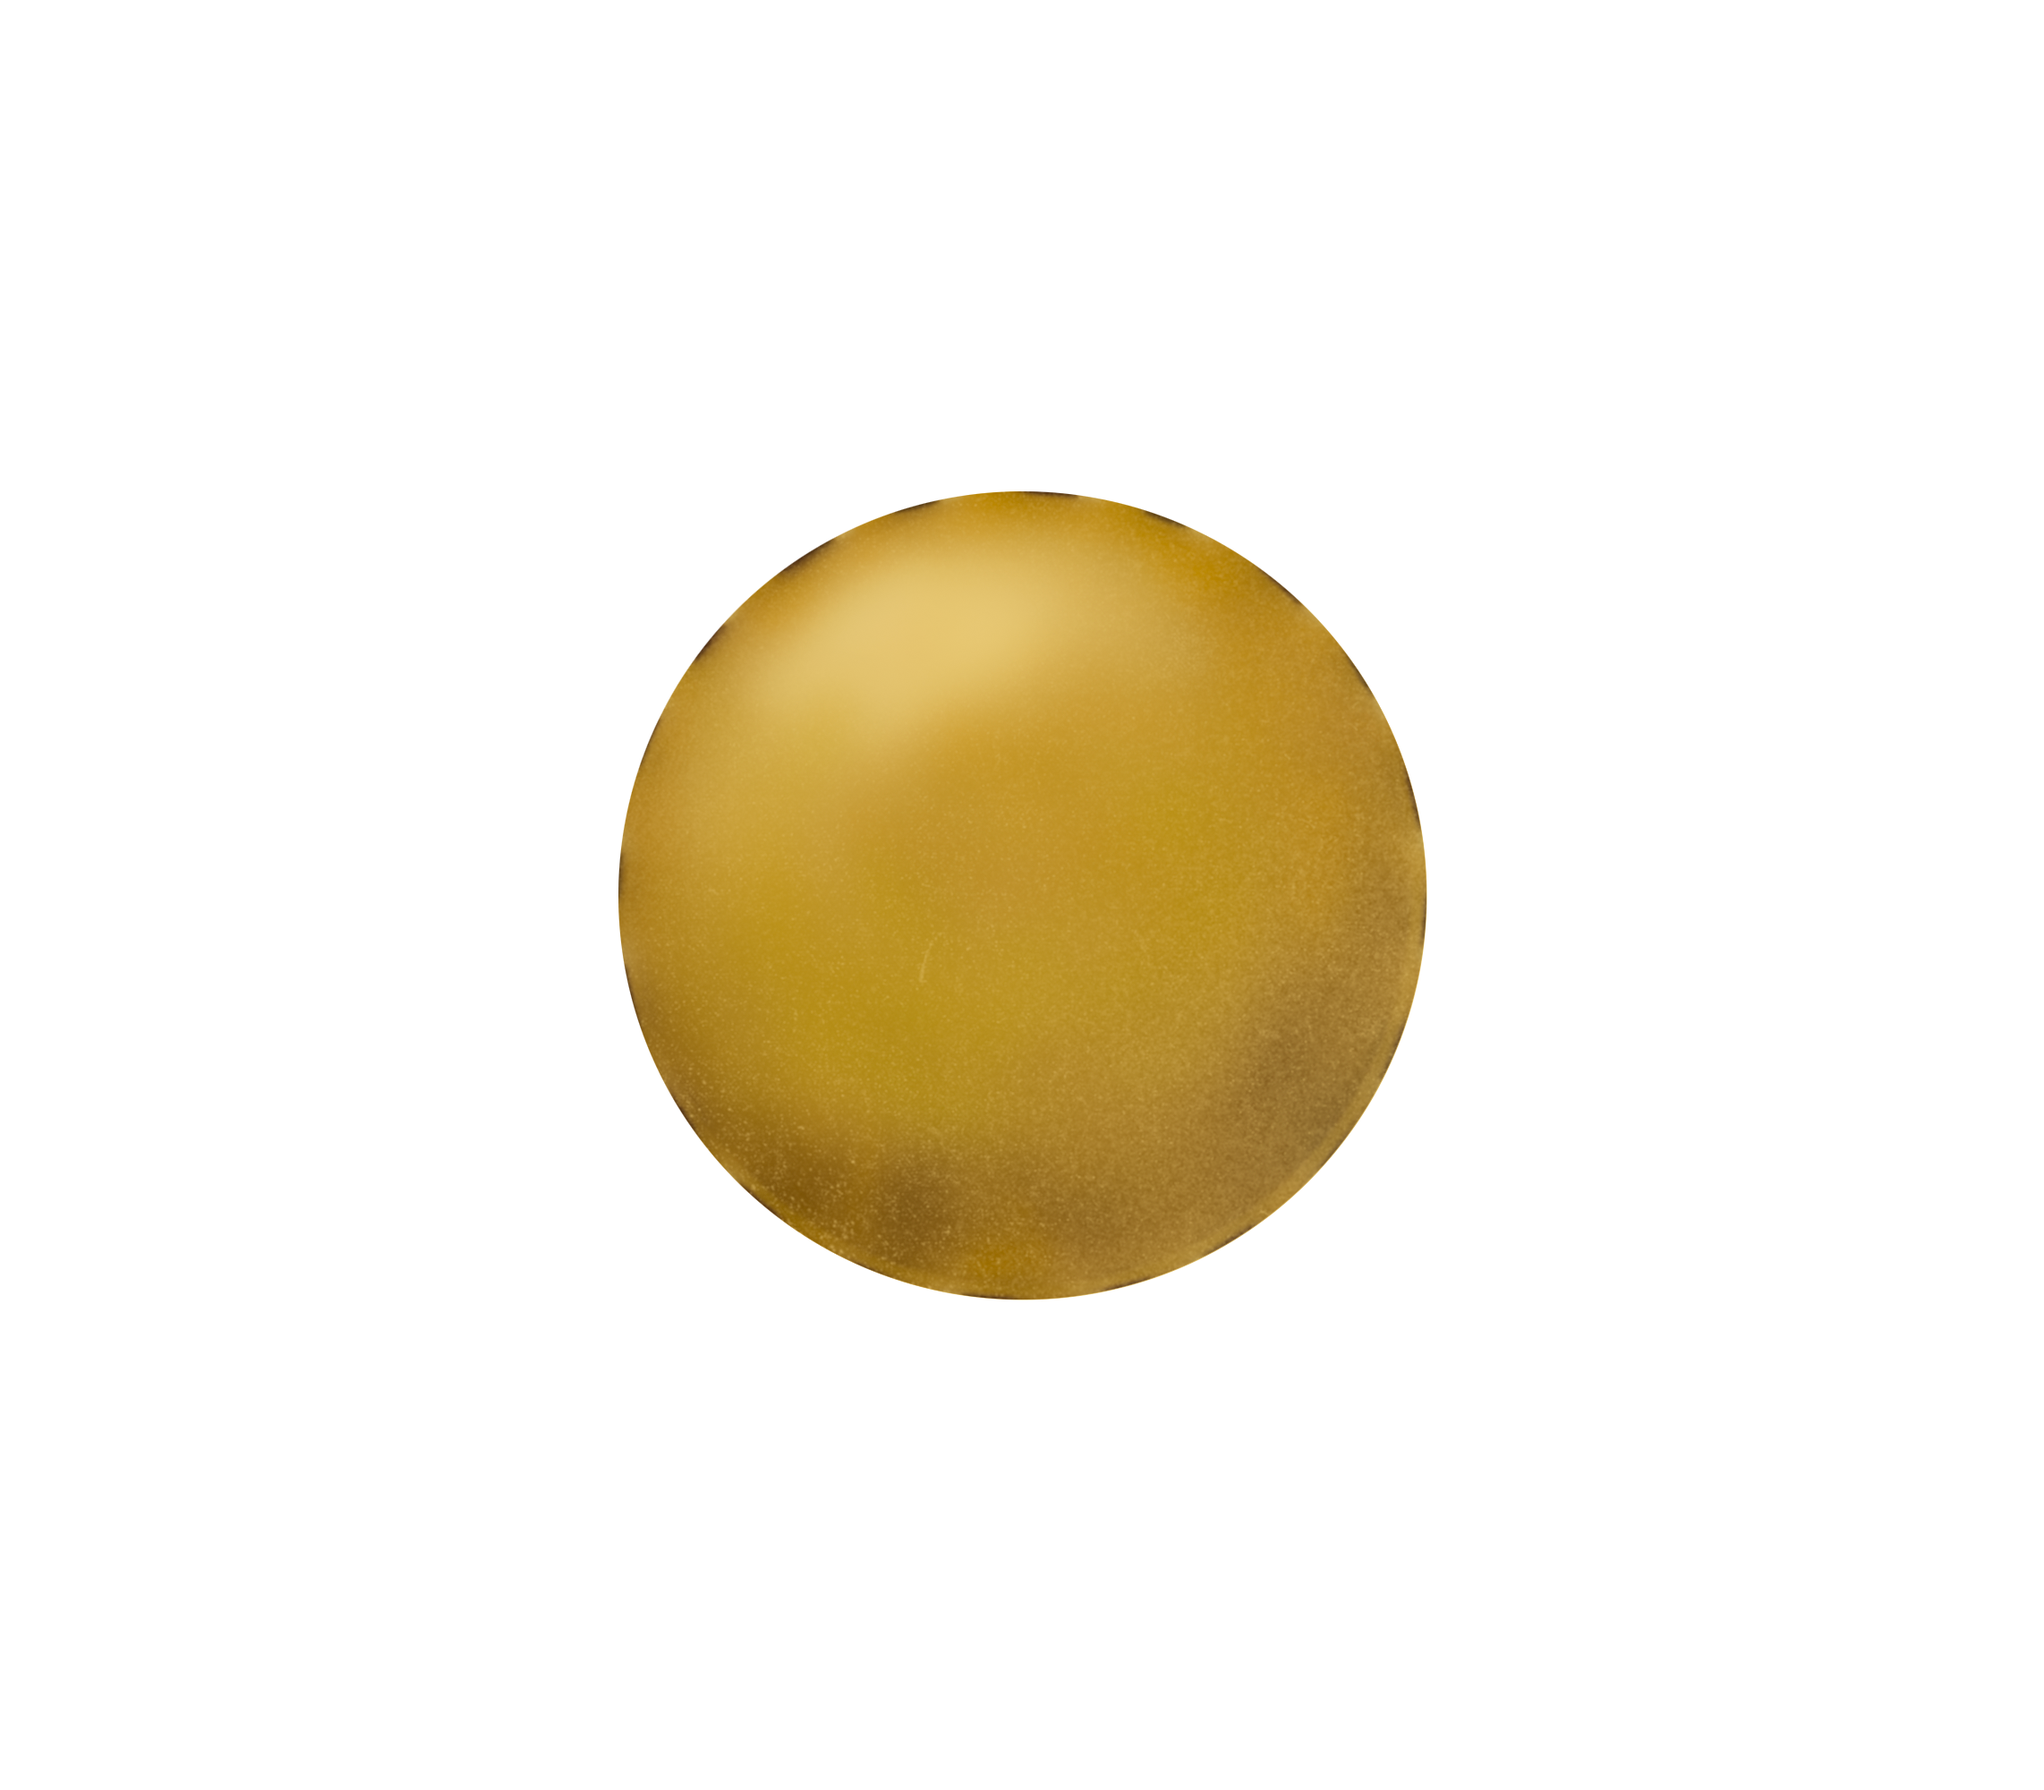
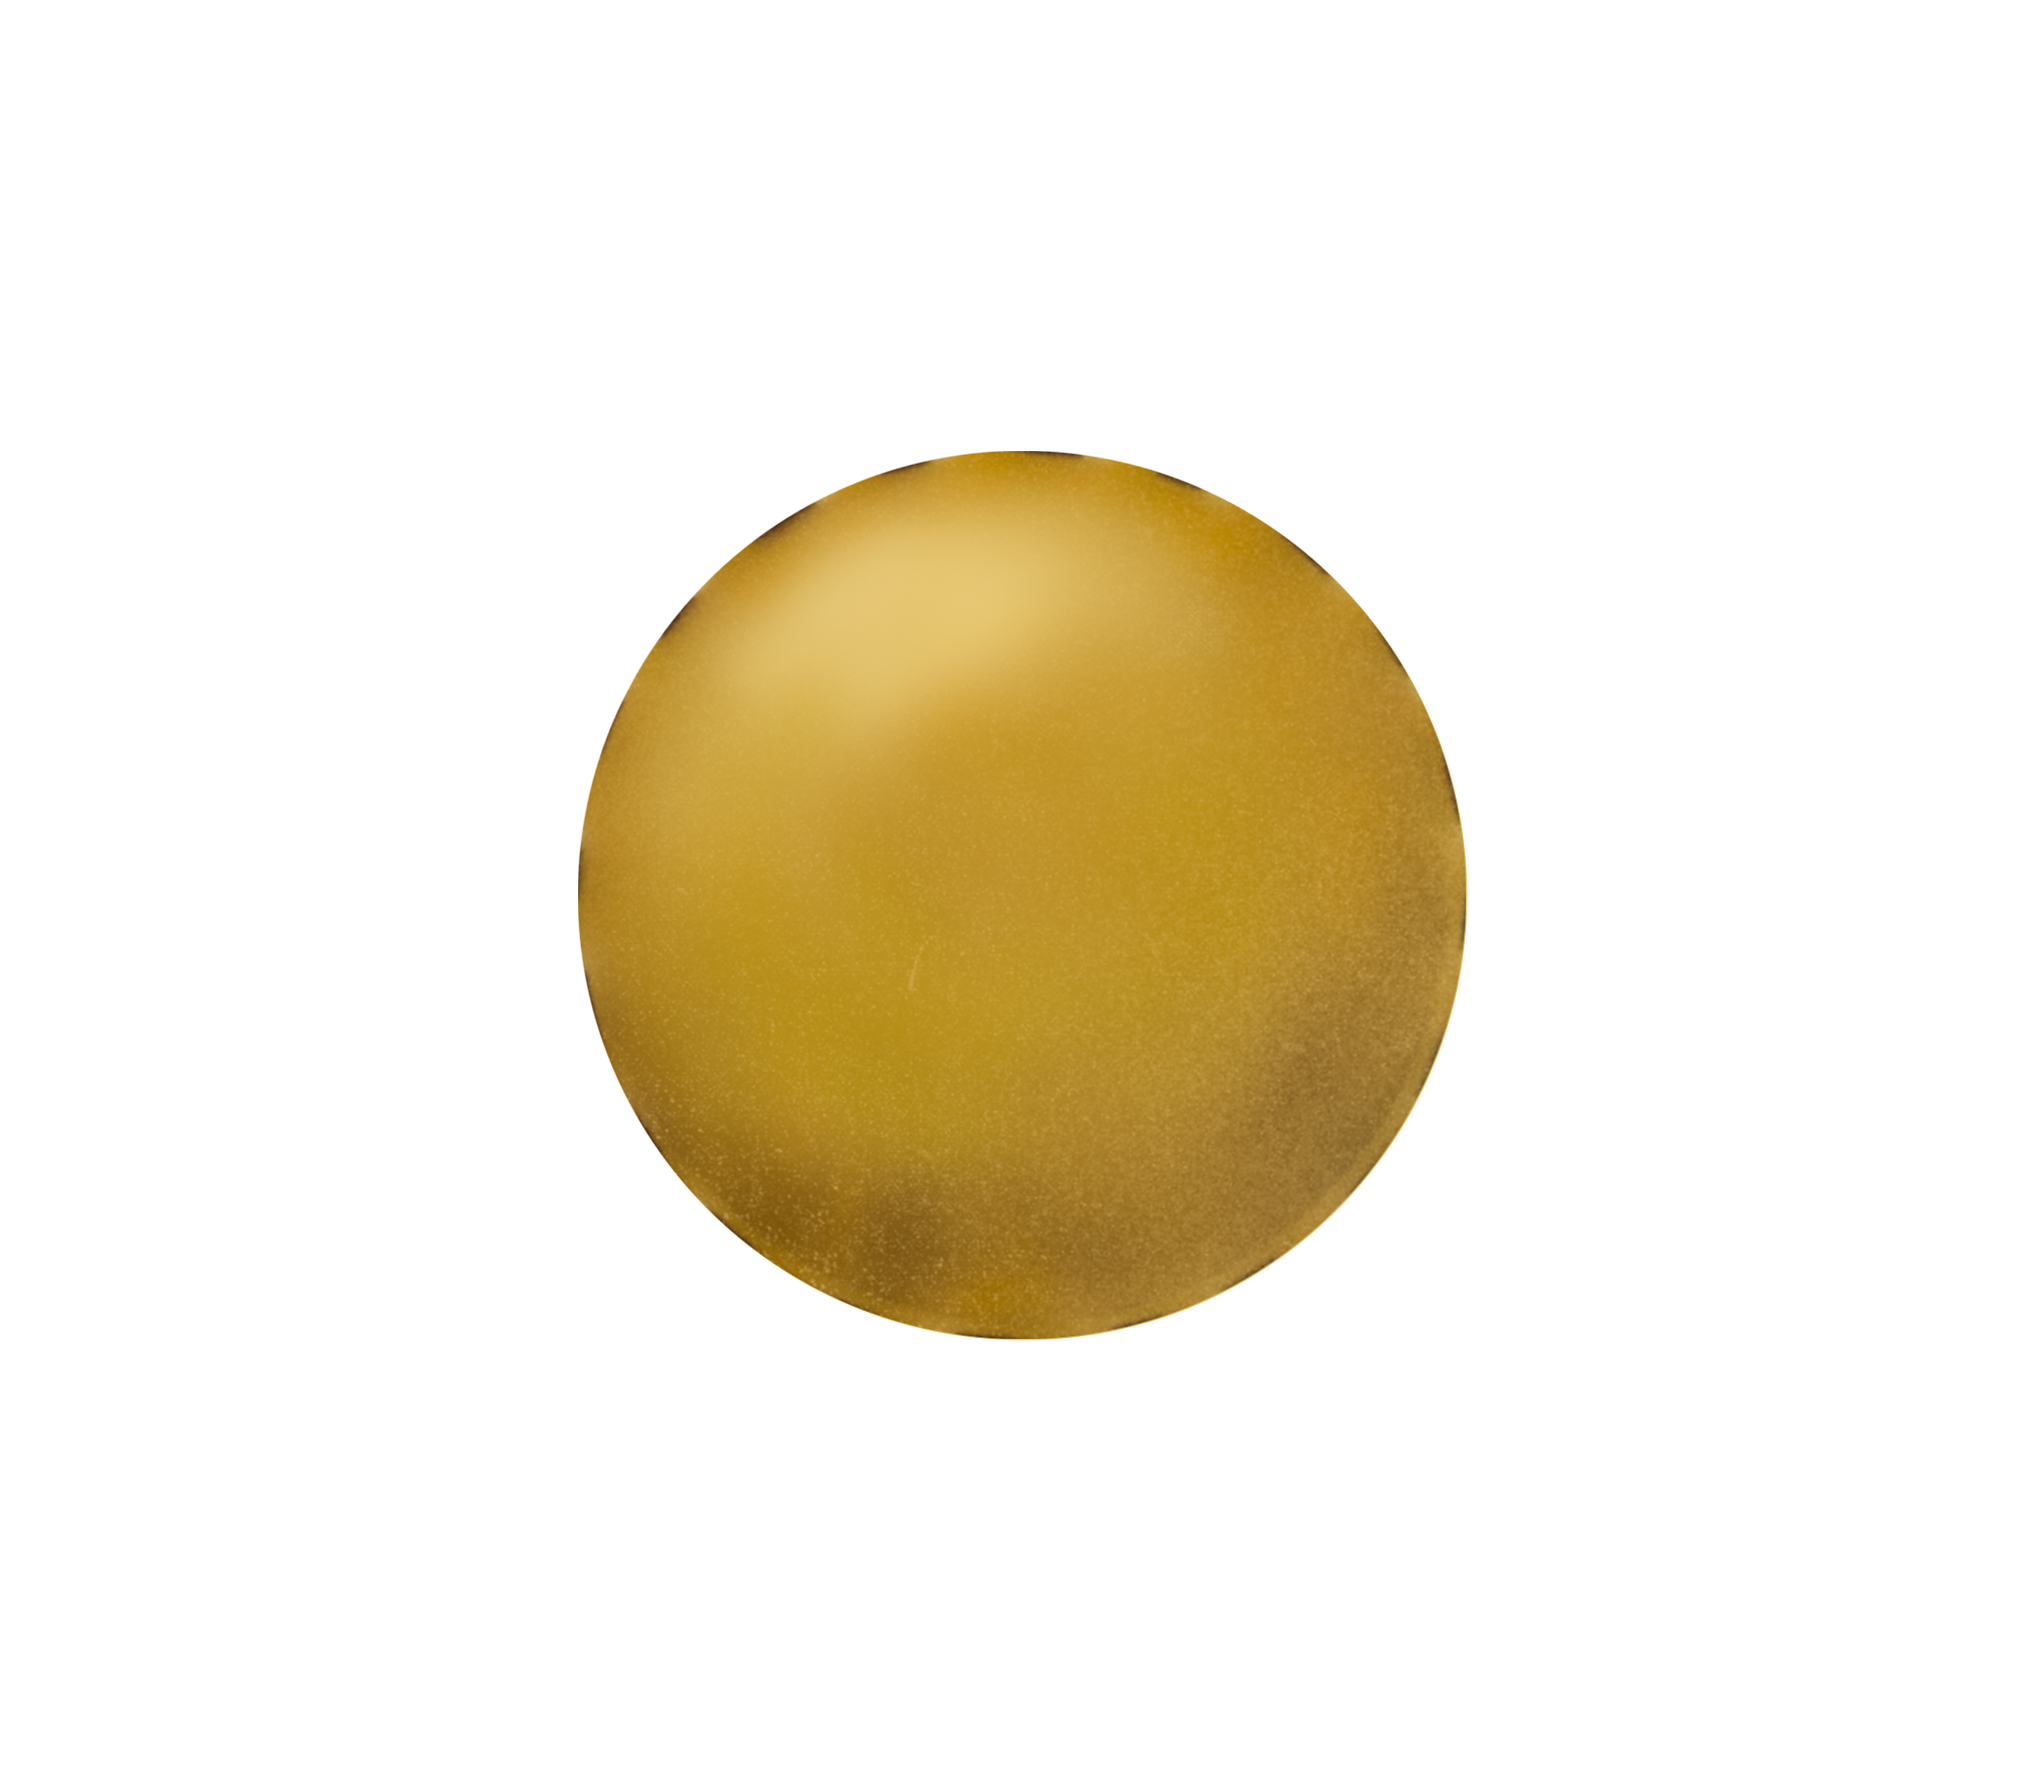
variant2

Changed region(s): [[0.2798, 0.248, 0.715, 0.775]]

diff --git a/css/stylesheet.css b/css/stylesheet.css
@@ -1,5 +1,8 @@
 .sun-block {
   max-width: 322px;
+  width: 322px;
+  height: 322px;
+  overflow: hidden;
   position: relative;
 }
 .sun-block-part {
@@ -40,34 +43,67 @@
     opacity: 1;
   }
 }
-.rays-short {
-  -webkit-animation: rays-short 2s infinite;
-          animation: rays-short 2s infinite;
+.rays-rotate {
+  -webkit-animation: rotate 19s infinite;
+          animation: rotate 19s infinite;
 }
 
+.rays-short {
+  -webkit-animation: rays-short 3s infinite;
+          animation: rays-short 3s infinite;
+}
+
+@-webkit-keyframes rotate {
+  0% {
+    -webkit-transform: rotate(0deg);
+            transform: rotate(0deg);
+  }
+  50% {
+    -webkit-transform: rotate(180deg);
+            transform: rotate(180deg);
+  }
+  100% {
+    -webkit-transform: rotate(360deg);
+            transform: rotate(360deg);
+  }
+}
+
+@keyframes rotate {
+  0% {
+    -webkit-transform: rotate(0deg);
+            transform: rotate(0deg);
+  }
+  50% {
+    -webkit-transform: rotate(180deg);
+            transform: rotate(180deg);
+  }
+  100% {
+    -webkit-transform: rotate(360deg);
+            transform: rotate(360deg);
+  }
+}
 @-webkit-keyframes rays-short {
   0% {
     -webkit-transform: scale(0.99);
             transform: scale(0.99);
   }
   50% {
-    -webkit-transform: scale(0.95);
-            transform: scale(0.95);
+    -webkit-transform: scale(0.85);
+            transform: scale(0.85);
   }
   100% {
     -webkit-transform: scale(0.99);
             transform: scale(0.99);
   }
 }
-
 @keyframes rays-short {
   0% {
     -webkit-transform: scale(0.99);
             transform: scale(0.99);
   }
   50% {
-    -webkit-transform: scale(0.95);
-            transform: scale(0.95);
+    -webkit-transform: scale(0.85);
+            transform: scale(0.85);
   }
   100% {
     -webkit-transform: scale(0.99);
@@ -75,8 +111,8 @@
   }
 }
 .rays-long {
-  -webkit-animation: rays-long 1.5s infinite;
-          animation: rays-long 1.5s infinite;
+  -webkit-animation: rays-long 3s infinite;
+          animation: rays-long 3s infinite;
 }
 
 @-webkit-keyframes rays-long {
@@ -107,4 +143,8 @@
     -webkit-transform: scale(0.99);
             transform: scale(0.99);
   }
+}
+.center {
+  -webkit-animation: rotate 22s infinite;
+          animation: rotate 22s infinite;
 }

diff --git a/sass/stylesheet.scss b/sass/stylesheet.scss
@@ -7,6 +7,9 @@
 
 .sun-block{
     max-width: 322px;
+    width: 322px;
+    height: 322px;
+    overflow: hidden;
     position: relative;
     &-part{
         max-width: 100%;
@@ -18,6 +21,8 @@
         }
     }
 }
+
+
 
 
 .light{
@@ -38,19 +43,37 @@
 }
 
 
-.rays-short{
-    animation: rays-short 2s infinite;
+.rays-rotate{
+    animation: rotate 19s infinite;
 }
+
+.rays-short{
+    animation: rays-short 3s infinite;
+}
+
+@keyframes rotate {
+    0% {
+        transform:  rotate(0deg)
+
+    }
+    50% {
+        transform:  rotate(180deg)
+    }
+    100% {
+        transform:  rotate(360deg)
+    }
+
+  }
 
 @keyframes rays-short {
     0% {
-        transform: scale(0.99)
+        transform: scale(0.99) 
     }
     50% {
-        transform: scale(0.95)
+        transform: scale(0.85) 
     }
     100% {
-        transform: scale(0.99)
+        transform: scale(0.99) 
     }
 
   }
@@ -58,18 +81,22 @@
 
   
 .rays-long{
-    animation: rays-long 1.5s infinite;
+    animation: rays-long 3s infinite;
 }
 
 @keyframes rays-long {
     0% {
-        transform: scale(0.99)
+        transform: scale(0.99) 
     }
     50% {
-        transform: scale(0.82)
+        transform: scale(0.82) 
     }
     100% {
-        transform: scale(0.99)
+        transform: scale(0.99) 
     }
 
+  }
+
+  .center {
+    animation: rotate 22s infinite;
   }

diff --git a/index.html b/index.html
@@ -23,12 +23,17 @@
 		<div class=" sun-block-part light">
 			<img src="images/light.png" alt="">
 		</div>
-		<div class=" sun-block-part rays-short">
-			<img class="sun-elems" src="images/rays_short.png" alt="">
-		</div>
-		<div class=" sun-block-part rays-long">
-			<img class="sun-elems" src="images/rays_long.png" alt="">
-		</div>
+		<!-- <div class=" sun-block-part rays-short">
+			<img class="sun-elems" src="images/rays.png" alt="">
+		</div> -->
+				
+			<div class=" sun-block-part rays-rotate">
+				<img class="  rays-short  sun-elems" src="images/rays_short.png" alt="">
+			</div>
+			<div class=" sun-block-part rays-rotate ">
+				<img class="rays-long sun-elems" src="images/rays_long.png" alt="">
+			</div>
+		
 		<div class="sun-block-part center">
 			<img src="images/center.png" alt="">
 		</div>
